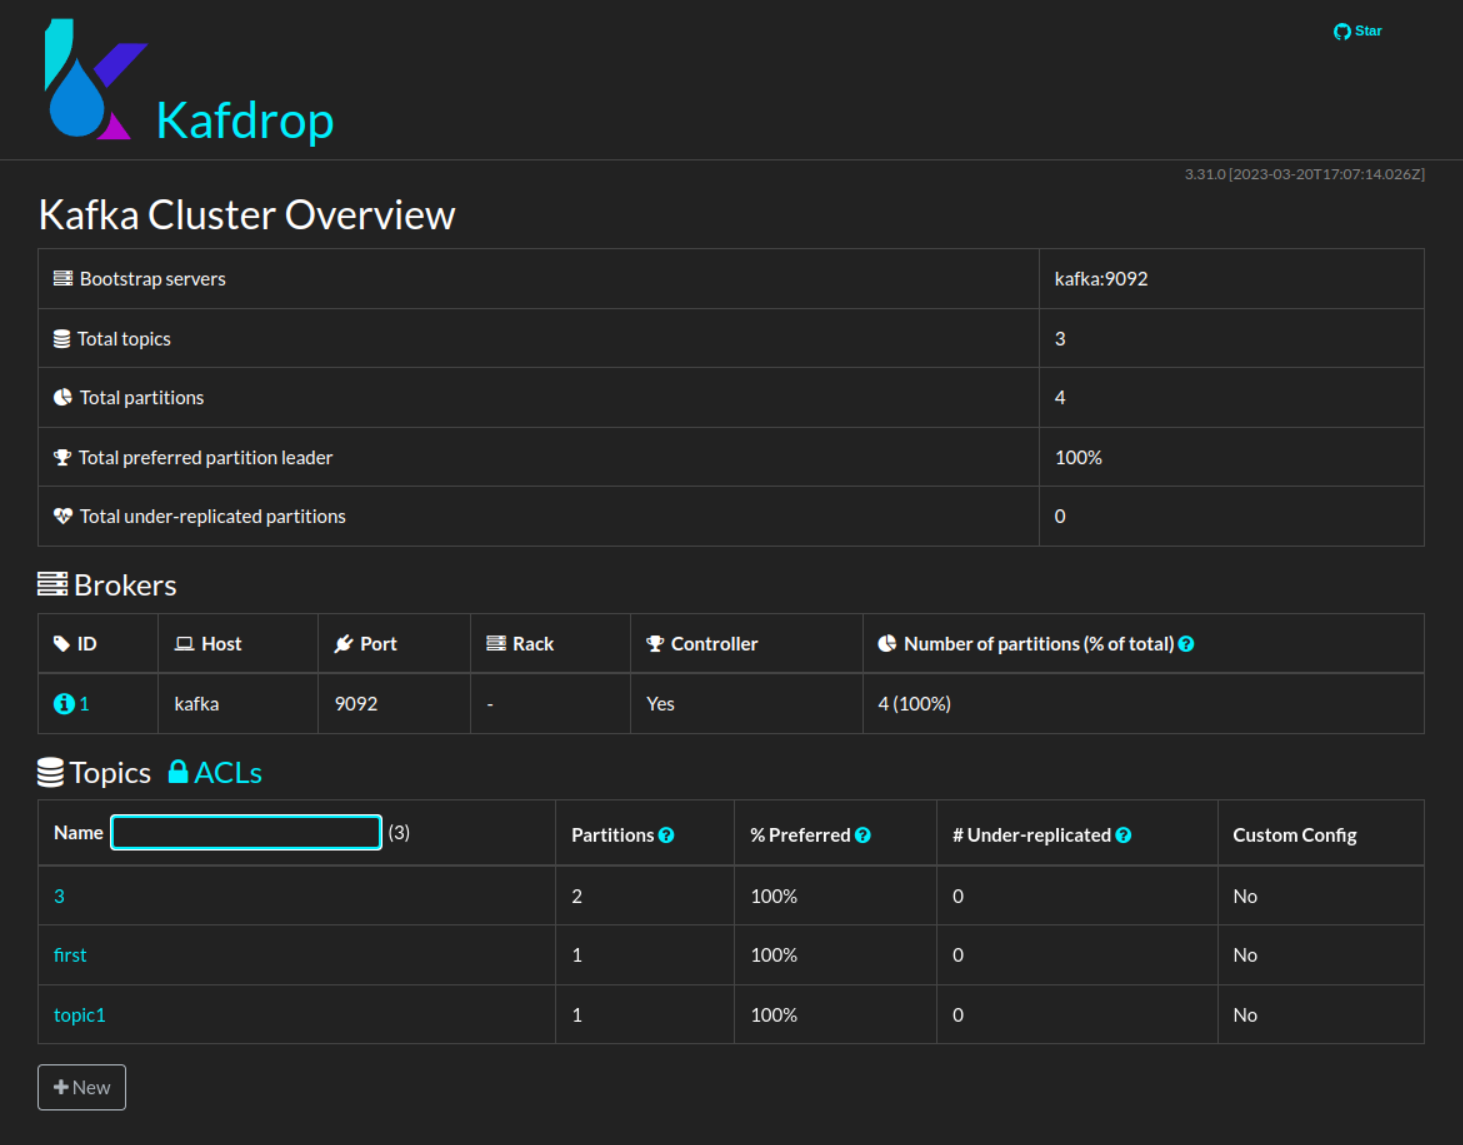
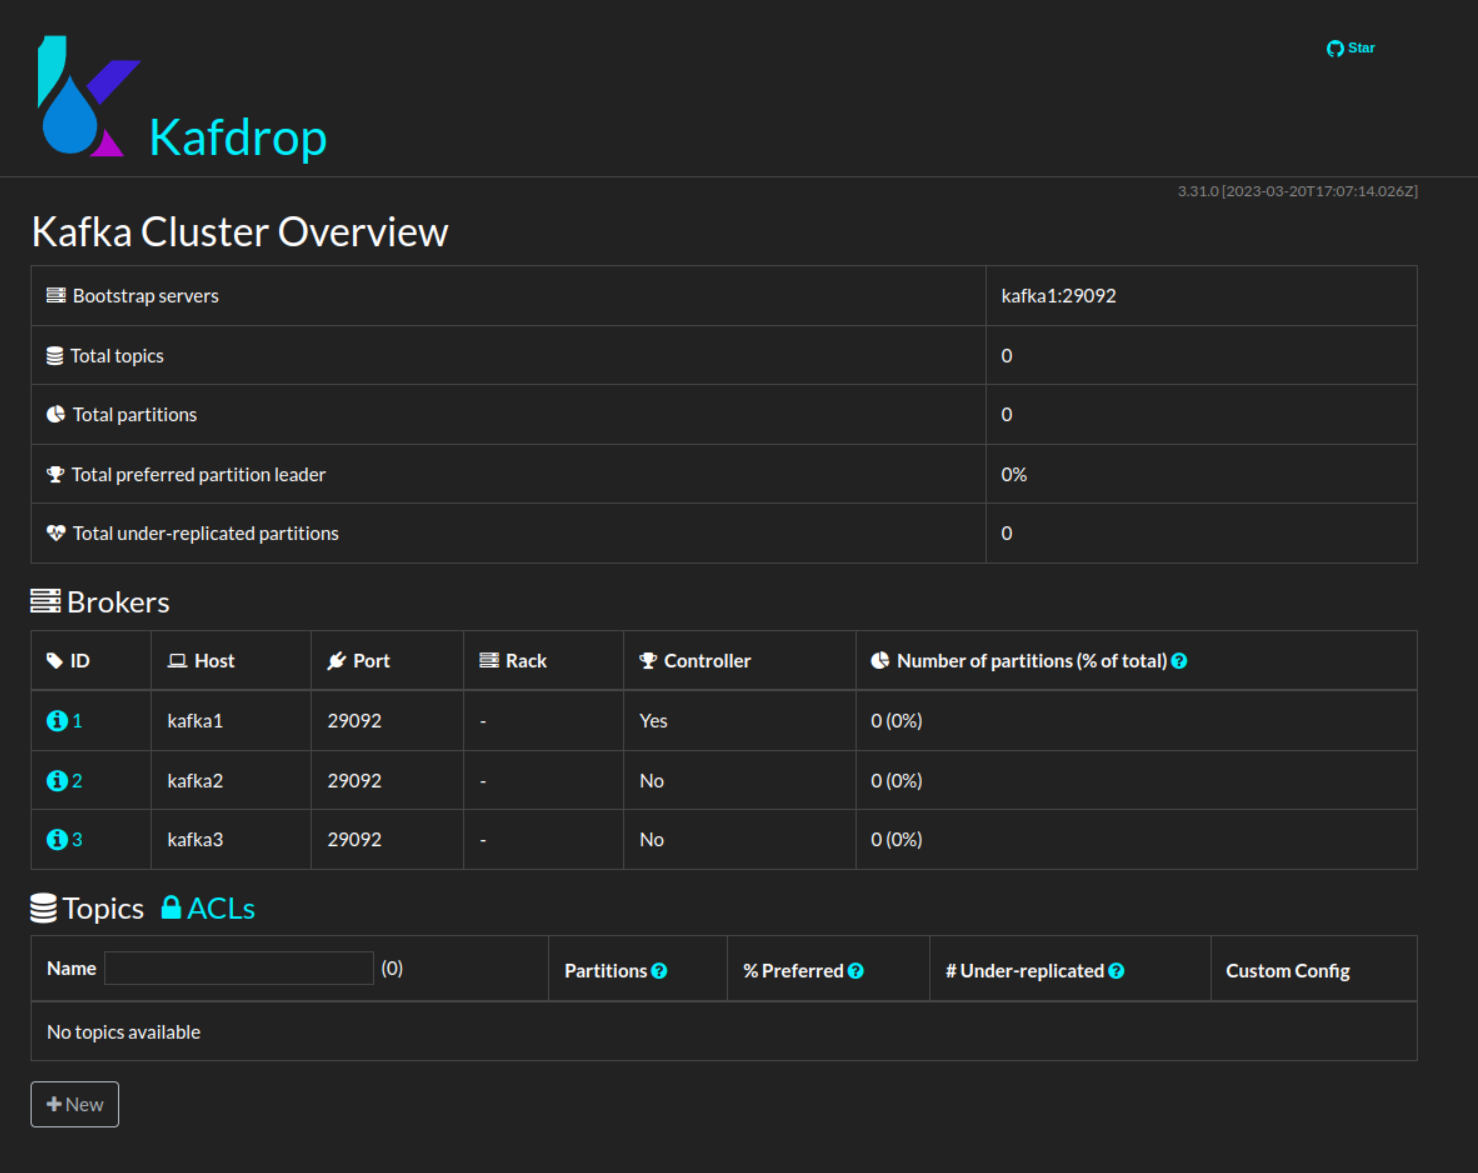
kafka replica deploy

diff --git a/lesson22/README.md b/lesson22/README.md
@@ -16,7 +16,7 @@
 * возможность интеграции Kafka с внешними системами данных с использованием Kafka Connect.
 
 #
-
+* Собран `docker-compose.replica.yml`
 <p align="center"> 
 <a href="https://raw.githubusercontent.com/Dodexq/otus_nosql/main/lesson22/screenshots/1.png" rel="some text"><img src="https://raw.githubusercontent.com/Dodexq/otus_nosql/main/lesson22/screenshots/1.png" alt="" width="500" /></a>
 </p>
